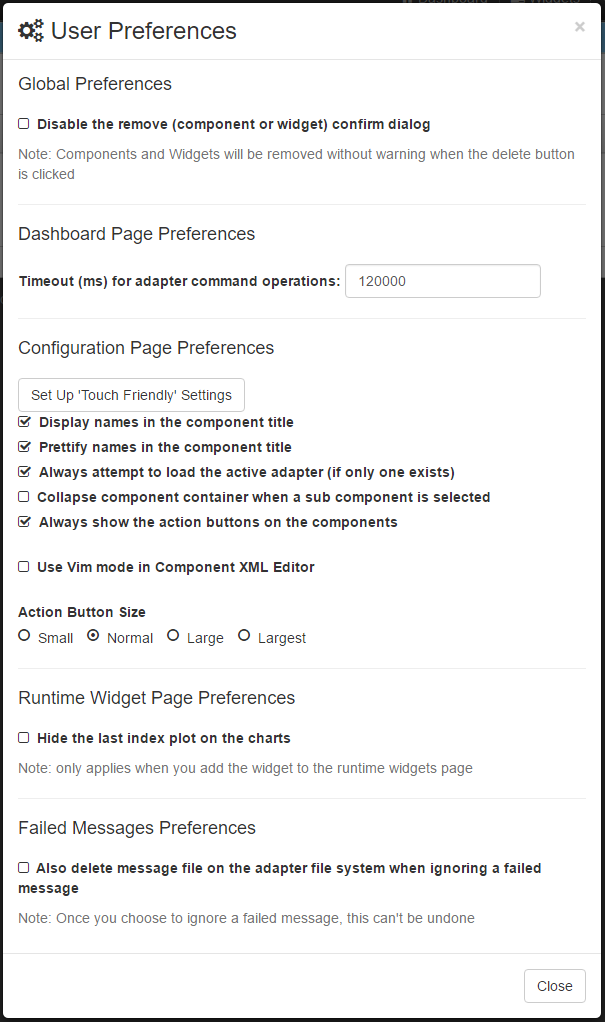
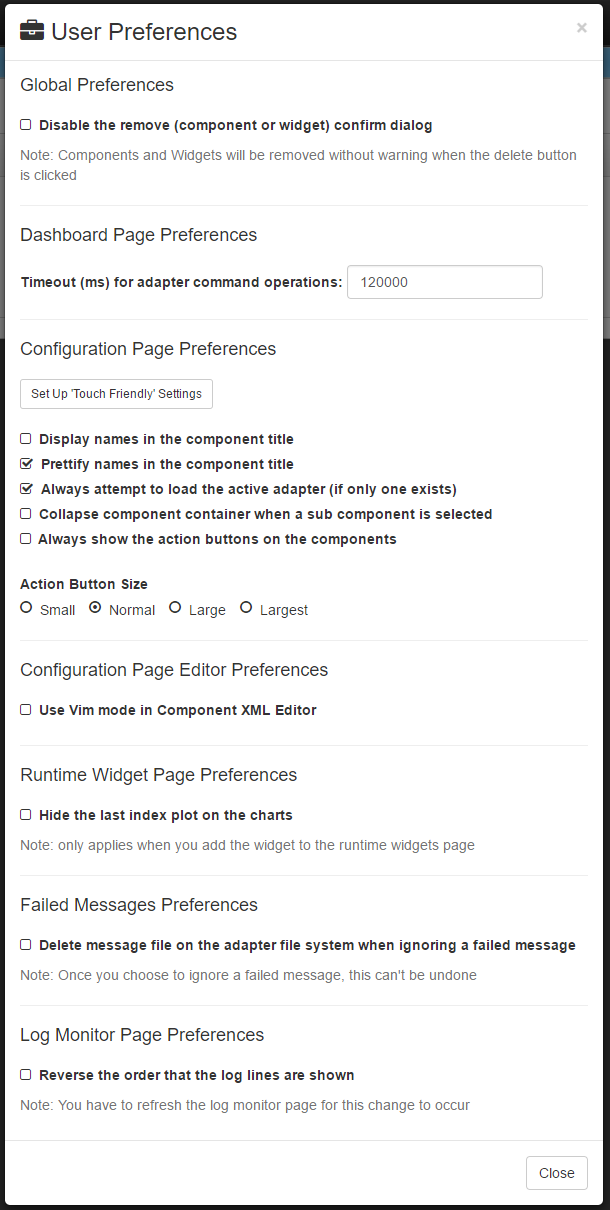
Update doc and the imagesfor the user preferences.

diff --git a/pages/ui/ui-user-preferences.md b/pages/ui/ui-user-preferences.md
@@ -15,7 +15,7 @@ You can access the User Preferences modal by clicking on the down arrow next to 
 The preferences are:
 
 ## Global Preferences ##
-- Disable the remove component confirm dialog: Before deleting components in the config page the application will prompt the user for confirmation. The prompt can be disabled, very useful when a lot of components need to be deleted. The default value is true. (Since 3.2)
+ - Disable the remove component confirm dialog: Before deleting components in the config page the application will prompt the user for confirmation. The prompt can be disabled, very useful when a lot of components need to be deleted. The default value is true. (Since 3.2)
 
 ## Dashboard Page Preferences ##
  - Timeout (ms) for adapter command operations: The timeout for the adapter commands such as Start Adapter, Stop Adapter, Start Channel ... The default value is 120000 ms (2 mins).
@@ -25,10 +25,16 @@ The preferences are:
  - Prettify names in the component title: The ui can display the component type and uid nicely (remove hyphen, underscore and split camel case uid). The default value is true.
  - Always attempt to load the active adapter (if only one exists): Decides when opening the config page if the application should automatically load the running adapter config or prompt the user for choices. The default value is true. (Since 3.2)
  - Collapse component container when a sub component is selected: The Adapter and Channel component container will collapse automatically if a child Channel or Workflow is selected. The default value is false. (Since 3.6)
- - Use Vim mode in Component XML Editor: Use Vim mode when editing component in the xml view. The default value is false. (Since 3.6)
+ - Always show the action buttons on the components (Since 3.6.1)
 
+## Configuration Page Editor Preferences ##
+ - Use Vim mode in Component XML Editor: Use Vim mode when editing component in the xml view. The default value is false. (Since 3.6)
+ 
 ## Runtime Widget Page Preferences ##
  - Hide the last index plot on the charts: Whether or not charts should hide the last index. The default value is false.
  
 ## Failed Messages Preferences ##
  - Also delete message file on the adapter file system when ignoring a failed message: When ignoring a failed message the associated message file in the file system will be deleted. The default value is false.
+ 
+## Log Monitor Preferences ##
+ - Reverse the order that the log lines are shown: The newst log lines will be display at the top of log panel. (Since 3.6.2)
